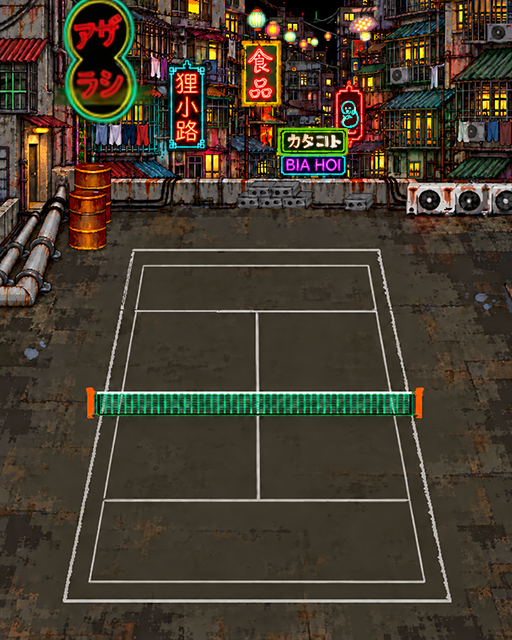
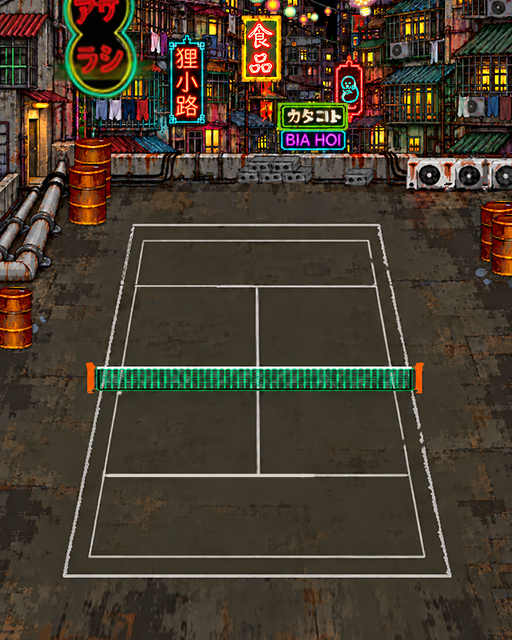
Restore latest stage backgrounds, audit inputs and remove unused court assets

diff --git a/game/tennis/main.js b/game/tennis/main.js
@@ -2,6 +2,8 @@
 // 数値は60回/秒の固定更新を前提とする。描画回数とは切り離す。
 const CANVAS_WIDTH = 256;
 const CANVAS_HEIGHT = 240;
+const ASSET_VERSION = '20261014-46';
+function assetUrl(file) { return `assets/${file}?v=${ASSET_VERSION}`; }
 const SETTINGS = {
   stepMs: 1000 / 60,
   moveImpulse: 1.2,
@@ -107,7 +109,7 @@ window.addEventListener('pointerdown', () => sound.unlock(), { capture: true });
 window.addEventListener('keydown', () => sound.unlock(), { capture: true });
 
 const sealImage = new Image();
-sealImage.src = 'assets/move_01.png';
+sealImage.src = assetUrl('move_01.png');
 // コマ寸法は提供データの実寸。画像は加工・反転せず読み込む。
 const SPRITE_CONFIG = {
   frameWidth: 71, frameHeight: 76,
@@ -124,7 +126,7 @@ for (const [key, file, frames] of [
   ['dashVertical', 'dash_y_seet.png', 2],
 ]) {
   const image = new Image();
-  image.src = `assets/${file}`;
+  image.src = assetUrl(file);
   sprites[key] = { image, frames };
 }
 // スイングのコマと判定は別管理。戻りで同じ絵を使っても再ヒットしない。
@@ -157,7 +159,7 @@ const VOLLEY = {
 // 提供PNGの黄色いラケット面を測定。半径は輪郭を含めた元画像上の値。
 VOLLEY.forehand.racketCenters = [[13.41, 22.04], [22.89, 47.05], [39.54, 51.57], [56.29, 52.85], [56.35, 30.49], [30.44, 12.45], [56.35, 30.49], [39.54, 51.57]];
 VOLLEY.forehand.racketRadii = [[12.41, 15.04], [12.11, 12.05], [9.54, 12.57], [12.29, 11.15], [12.65, 12.49], [11.56, 12.55], [12.65, 12.49], [9.54, 12.57]];
-VOLLEY.backhand.racketCenters = [[61.68, 22.57], [49.57, 42.45], [13.91, 49.98], [11.74, 37.69], [20.75, 10.49]];
+VOLLEY.backhand.racketCenters = [[65.72, 22.60], [53.53, 42.42], [17.84, 50.01], [15.57, 37.74], [24.69, 10.51]];
 VOLLEY.backhand.racketRadii = [[13.68, 15.57], [12.43, 13.45], [13.09, 13.02], [14.26, 14.69], [12.25, 11.51]];
 // サーブ・スマッシュ共通：03/04で打球、05は0.3秒の振り下ろし。
 for (const kind of ['smash', 'serve']) {
@@ -183,12 +185,12 @@ const campaign = { stage: [2,3].includes(window.SEAL_START_STAGE) ? window.SEAL_
 const score = { player: 0, cpu: 0 };
 const openingImages = {};
 for (const [key, file] of Object.entries({ background: 'openning.png', logo: 'logo.png' })) {
-  const image = new Image(); image.src = `assets/${file}`; openingImages[key] = image;
+  const image = new Image(); image.src = assetUrl(file); openingImages[key] = image;
 }
 const screen = { phase: 'title', ticks: 0 };
 const stageIntros = [null,...[1,2,3].map((stage)=>{
- const card=new Image();card.src=`assets/intro-stage${stage}.png`;
- const portrait=new Image();portrait.src=`assets/intro-${['cha','ich','erin'][stage-1]}.png`;
+ const card=new Image();card.src=assetUrl(`intro-stage${stage}.png`);
+ const portrait=new Image();portrait.src=assetUrl(`intro-${['cha','ich','erin'][stage-1]}.png`);
  return{card,portrait};
 })];
 function drawStageIntro(context){
@@ -216,7 +218,7 @@ function drawOpening(context, now) {
 }
 const judgeImages = {};
 for (const [key, file] of Object.entries({ referee: 'sinpan.png', bubble: 'fukidasi.png', win: 'WIN.png', lose: 'gameover.png' })) {
-  const image = new Image(); image.src = `assets/${file}`; judgeImages[key] = image;
+  const image = new Image(); image.src = assetUrl(file); judgeImages[key] = image;
 }
 const referee = { text: '', ticks: 0, frame: 1,
   call(text, ticks = 90) {
@@ -282,7 +284,7 @@ for (const config of Object.values(VOLLEY)) {
   }));
   config.totalTicks = config.phases.reduce((total, phase) => total + phase.ticks, 0);
   config.image = new Image();
-  config.image.src = `assets/${config.file}`;
+  config.image.src = assetUrl(config.file);
 }
 let showGuide = false;
 
@@ -327,7 +329,7 @@ class InputHandler {
     if (this.actionSources.has(source)) return;
     if (!this.action) {
       // 下を先に押している場合も、ショットを押した瞬間にロブを開始する。
-      this.shotQueue.push({ type: this.downHeld ? 'lob' : 'press' });
+      this.shotQueue.push({ type: this.downHeld ? 'lob' : 'press', shotPress: true });
     }
     this.actionSources.add(source);
   }
@@ -538,7 +540,7 @@ class SealPlayer {
     for (const event of input.shotQueue.splice(0)) {
       if (ball.serveWaiting || ball.serving || (this.isSwinging && this.shotType === 'serve')) {
         // サーブ専用：離す操作では振らない。最初の押下で準備→トス、次の押下で振る。
-        if (event.type === 'press' && !this.isSwinging) {
+        if ((event.type === 'press' || event.shotPress) && !this.isSwinging) {
           if (ball.servePhase === 'waiting') {
             this.shotType = 'serve';
             this.isPreparing = true;
@@ -663,7 +665,7 @@ for (const [key,file,frames,w,h] of [
  ['rightShot','2p_bolay_L.png',7,100,100],
  ['overhead','2p_sarv.png',6,100,100],
 ]) {
- const image = new Image(); image.src = `assets/${file}`;
+ const image = new Image(); image.src = assetUrl(file);
  CPU_SPRITES[key] = { image, frames, w, h };
 }
 const CPU_SHOTS = {
@@ -690,7 +692,7 @@ class CpuPlayer {
   this.shotKind='leftShot';this.swingElapsed=0;this.isSwinging=false;this.hasHit=false;
   this.reactionTimer=0;this.dashTimer=0;this.dashCooldown=0;
   this.serveAge=0;this.plan=null;
-  this.fatigueShots=0;this.fatigueTriggered=false;this.observedHits=-1;
+  this.fatigueShots=0;this.fatigueMoveShots=0;this.fatigueTriggered=false;this.observedHits=-1;
  }
  phase() {
   if(!this.isSwinging)return null;
@@ -754,7 +756,7 @@ class CpuPlayer {
   }else if(!this.isSwinging||this.hasHit){this.targetX=ball.rallyHits===0?128:Math.max(36,Math.min(220,ball.x));this.targetY=ball.rallyHits===0?58:100;}
   const dx=this.targetX-this.x,dy=this.targetY-this.y,distance=Math.hypot(dx,dy);
   if(incoming&&distance>38&&!this.dashCooldown&&!this.isSwinging){this.dashTimer=18;this.dashCooldown=100;}
-  const speed=(this.dashTimer?1.3:CPU_SETTINGS.speed)*(dy<0?0.65:1)*(this.fatigueShots>0?0.6:1);
+  const speed=(this.dashTimer?1.3:CPU_SETTINGS.speed)*(dy<0?0.65:1)*(this.fatigueMoveShots>0?0.6:1);
   if(distance>0.1){const step=Math.min(speed,distance);this.x+=dx/distance*step;this.y+=dy/distance*step;}
   this.moving=distance>0.1;
   if(Math.abs(dx)>0.1)this.visualFacing=Math.sign(dx);
@@ -775,7 +777,8 @@ class CpuPlayer {
   this.hasHit=true;ball.lastHitter='cpu';ball.bouncesInCurrentCourt=0;
   ball.lastShotQuality=quality;
   ball.recordReturn();
-  if(campaign.stage===1&&ball.rallyHits>=10&&!this.fatigueTriggered){this.fatigueTriggered=true;this.fatigueShots=5;}
+  if(this.fatigueMoveShots>0)this.fatigueMoveShots--;
+  if(campaign.stage===1&&ball.rallyHits>=10&&!this.fatigueTriggered){this.fatigueTriggered=true;this.fatigueShots=5;this.fatigueMoveShots=5;}
   const tired=this.fatigueShots>0;
   const r=this.racket();
   const contact=Math.max(-1,Math.min(1,(ball.x-r.x)/Math.max(1,r.hitRadius)));
@@ -838,7 +841,7 @@ for (const [key,file,cuts,h] of [
  ['rightShot','boy-fore.png',[0,110,220,330,440,550,660],99],
  ['overhead','boy-serve.png',[0,126,251,377,503,629,754,880],130],
  ['walk','boy-walk.png',[0,126,252,378,503],111]
-]) { const image=new Image();image.src=`assets/${file}`; BOY_SPRITES[key]={image,cuts,h}; }
+]) { const image=new Image();image.src=assetUrl(file); BOY_SPRITES[key]={image,cuts,h}; }
 const BOY_SHOTS = {
  leftShot: { centers:[[10,33],[64,18],[98,32],[98,61],[10,33]], anchor:[40,92], phases:[
   {frame:1,ticks:7},{frame:2,ticks:6,quality:'float'},{frame:3,ticks:7,quality:'critical'},{frame:4,ticks:8}] },
@@ -863,7 +866,7 @@ class BoyPlayer extends CpuPlayer {
   // 前へ突進せず、後方から長いリーチで返球する。
   this.targetY=Math.max(46,Math.min(84,this.targetY));
   const dx=this.targetX-this.x,dy=this.targetY-this.y,d=Math.hypot(dx,dy);
-  if(d>.1){const speed=CPU_SETTINGS.speed*(this.fatigueShots>0?.6:1),step=Math.min(speed,d);this.x+=dx/d*step;this.y+=dy/d*step;}
+  if(d>.1){const speed=CPU_SETTINGS.speed*(this.fatigueMoveShots>0?.6:1),step=Math.min(speed,d);this.x+=dx/d*step;this.y+=dy/d*step;}
   this.y=Math.min(84,this.y);this.moving=d>.1;this.animationTick=this.moving?this.animationTick+1:0;
   if(Math.abs(dx)>.1)this.visualFacing=Math.sign(dx);
   if(incoming&&!this.isSwinging&&this.plan&&this.plan.n<=this.plan.windup+1)this.startSwing(this.plan.kind);
@@ -947,7 +950,7 @@ const ERIN_SPRITES = {};
 for(const [key,file,frames,w,h] of [
  ['leftShot','erin-back.png',5,98,108],['rightShot','erin-fore.png',5,98,100],
  ['overhead','erin-serve.png',6,97,125],['moveLeft','erin-left.png',5,98,108],['moveRight','erin-right.png',5,98,108]
-]){const image=new Image();image.src=`assets/${file}`;ERIN_SPRITES[key]={image,frames,w,h};}
+]){const image=new Image();image.src=assetUrl(file);ERIN_SPRITES[key]={image,frames,w,h};}
 const ERIN_SHOTS = {
  leftShot:{anchor:[44,99],centers:[[76,74],[12,36],[26,64],[64,44],[86,27]],phases:[{frame:1,ticks:7},{frame:2,ticks:7,quality:'critical'},{frame:3,ticks:6,quality:'float'},{frame:4,ticks:9}]},
  rightShot:{anchor:[44,93],centers:[[83,65],[74,30],[82,53],[35,43],[14,38]],phases:[{frame:1,ticks:7},{frame:2,ticks:7,quality:'critical'},{frame:3,ticks:6,quality:'float'},{frame:4,ticks:9}]},
@@ -1303,6 +1306,7 @@ class Ball {
       const netHeight = campaign.stage === 3 ? 27/projectCourt(128,120).scale : campaign.stage === 2 ? 25 / projectCourt(128, 120).scale : 12;
       if (crossingHeight - this.radius < netHeight && !this.netTouched) {
         this.hitNet = true; this.netTouched = true;
+        sound.play('net');
         // ステージ3のサーブはネット接触もフォルトに数え、2回目で失点。
         if(campaign.stage===3&&this.servicePending){this.fault();return;}
         sound.tune('sad');
@@ -1387,66 +1391,38 @@ class Ball {
   }
 }
 
-function drawCourt(context) {
-  context.fillStyle = '#1c7a31';
-  context.fillRect(24, 36, 208, 178);
-  context.strokeStyle = '#ffffff'; context.lineWidth = 1;
-  context.strokeRect(36, 46, 184, 158);
-  context.beginPath();
-  context.moveTo(36, 84); context.lineTo(220, 84);
-  context.moveTo(36, 166); context.lineTo(220, 166);
-  context.moveTo(128, 84); context.lineTo(128, 166);
-  context.stroke();
-  context.fillStyle = 'rgba(230,230,230,0.5)';
-  context.fillRect(24, 108, 208, 12);
-  context.strokeStyle = '#eeeeee';
-  context.beginPath();
-  context.moveTo(24, 108); context.lineTo(232, 108);
-  context.moveTo(24, 120); context.lineTo(232, 120);
-  context.stroke();
-}
-
 // 表示だけを512×640へ投影。移動・打球の計算座標は従来の256×240を維持。
 const VIEW = { width: 512, height: 640 };
-// 提供された3枚を別レイヤーとして読み込む。
+// 各ステージ画像はコートとネットを含む完成背景。
 const sceneImages = {};
 const sceneLoadErrors = new Set();
-for (const name of ['background', 'court', 'net']) {
+for (const name of ['background']) {
   const image = new Image();
-  image.onerror = () => sceneLoadErrors.add(name);
-  image.onload = () => sceneLoadErrors.delete(name);
-  image.src = `assets/${name}.png`;
+  image.onerror = () => { sceneLoadErrors.add(name); };
+  image.onload = () => { sceneLoadErrors.delete(name); };
+  image.src = assetUrl(`${name}.png`);
   sceneImages[name] = image;
 }
-const COURT_ART = { x: 59, y: 199, width: 394, height: 406, sourceHeight: 396 };
-// 白線の奥・サービスライン・ネット・サービスライン・手前に対応。
-const COURT_Y = [[46,18], [84,67], [120,172.5], [166,278], [204,370]];
-const stage2Image = new Image(); stage2Image.src = 'assets/stage2.png';
-const stage3Image = new Image();stage3Image.src='assets/stage3.png';
-const continueImage = new Image();continueImage.src='assets/contenu.png';
+// 背景のシングルスラインとネットの接地位置へ計算座標を投影する。
+const STAGE_COURTS = {
+  1: { rows: [[46,226],[84,277],[120,389],[166,485],[204,578]], left: [143,89], right: [370,429], net: [83,364,347,28] },
+  2: { rows: [[46,225],[84,277],[120,390],[166,486],[204,578]], left: [144,85], right: [369,428], net: [83,365,348,25] },
+  3: { rows: [[46,242],[84,286],[120,390],[166,475],[204,557]], left: [144,89], right: [368,423], net: [86,363,338,31] }
+};
+const stage2Image = new Image(); stage2Image.src = assetUrl('stage2.png');
+const stage3Image = new Image();stage3Image.src = assetUrl('stage3.png');
+const continueImage = new Image();continueImage.src = assetUrl('contenu.png');
 function projectCourt(x, y) {
-  if(campaign.stage===3){
-   const rows=[[46,266],[84,311],[120,415],[166,500],[204,582]];let i=0;
-   while(i<rows.length-2&&y>rows[i+1][0])i++;
-   const [wa,sa]=rows[i],[wb,sb]=rows[i+1],sy=sa+(y-wa)/(wb-wa)*(sb-sa),t=(sy-266)/316;
-   const left=144-55*t,right=367+58*t,scale=(right-left)/184;return{x:left+(x-36)*scale,y:sy,scale};
-  }
-  if (campaign.stage === 2) {
-    const rows=[[46,225],[84,277],[120,390],[166,486],[204,578]];let i=0;
-    while(i<rows.length-2&&y>rows[i+1][0])i++;
-    const [wa,sa]=rows[i],[wb,sb]=rows[i+1], sy=sa+(y-wa)/(wb-wa)*(sb-sa);
-    const t=(sy-225)/(578-225),left=144-59*t,right=369+59*t,scale=(right-left)/184;
-    return{x:left+(x-36)*scale,y:sy,scale};
-  }
+  const court = STAGE_COURTS[campaign.stage], rows = court.rows;
   let i = 0;
-  while (i < COURT_Y.length - 2 && y > COURT_Y[i + 1][0]) i++;
-  const [wa, sa] = COURT_Y[i], [wb, sb] = COURT_Y[i + 1];
+  while (i < rows.length - 2 && y > rows[i + 1][0]) i++;
+  const [wa,sa] = rows[i], [wb,sb] = rows[i + 1];
   const sy = sa + (y - wa) / (wb - wa) * (sb - sa);
-  const t = (sy - 18) / 352;
-  const left = 81 - 54 * t, right = 310 + 56 * t;
+  const t = (sy - rows[0][1]) / (rows[rows.length - 1][1] - rows[0][1]);
+  const left = court.left[0] + (court.left[1] - court.left[0]) * t;
+  const right = court.right[0] + (court.right[1] - court.right[0]) * t;
   const scale = (right - left) / 184;
-  return { x: COURT_ART.x + left + (x - 36) * scale,
-    y: COURT_ART.y + sy * COURT_ART.height / COURT_ART.sourceHeight, scale };
+  return { x: left + (x - 36) * scale, y: sy, scale };
 }
 function imageReady(image) { return image.complete && image.naturalWidth > 0; }
 function drawProjected(context, object, x, y) {
@@ -1459,25 +1435,16 @@ function drawProjected(context, object, x, y) {
   context.restore();
 }
 function drawProjectedNet(context) {
-  if(campaign.stage===3){if(imageReady(stage3Image))context.drawImage(stage3Image,87,389,336,27,87,389,336,27);return;}
-  if (campaign.stage === 2) {
-    // 背景内ネットを同じ画像から前景に重ね、奥の球・人物を隠す。
-    if(imageReady(stage2Image))context.drawImage(stage2Image,83,365,348,25,83,365,348,25);
-    return;
-  }
-  const a = projectCourt(24, 120), b = projectCourt(232, 120);
-  // 上端を従来の衝突判定（高さ12）に合わせる。
-  const height = 12 * a.scale;
-  if (imageReady(sceneImages.net))
-    context.drawImage(sceneImages.net, a.x, a.y - height, b.x - a.x, height);
+  const image = campaign.stage === 1 ? sceneImages.background : campaign.stage === 2 ? stage2Image : stage3Image;
+  const [x,y,width,height] = STAGE_COURTS[campaign.stage].net;
+  // 背景内ネットを前景に重ね、奥側の球・人物との前後関係を保つ。
+  if (imageReady(image)) context.drawImage(image,x,y,width,height,x,y,width,height);
 }
 function drawScene(context) {
   context.fillStyle = '#10171a'; context.fillRect(0,0,VIEW.width,VIEW.height);
   if(campaign.stage===3&&imageReady(stage3Image))context.drawImage(stage3Image,0,0,512,640);
   if (campaign.stage === 2 && imageReady(stage2Image)) context.drawImage(stage2Image,0,0,512,640);
   if (campaign.stage === 1 && imageReady(sceneImages.background)) context.drawImage(sceneImages.background,0,0,VIEW.width,VIEW.height);
-  if (campaign.stage === 1 && imageReady(sceneImages.court)) context.drawImage(sceneImages.court,
-    COURT_ART.x, COURT_ART.y, COURT_ART.width, COURT_ART.height);
   if(screen.phase==='continue'){drawContinue(context);return;}
   drawProjected(context,cpu,cpu.x,cpu.y);
   if(ball.y < 120) drawProjected(context,ball,ball.x,ball.y);
@@ -1650,9 +1617,6 @@ function gameLoop(now) {
   if (!paused && !document.hidden) clock.advance(now);
   ctx.imageSmoothingEnabled = false;
   if (screen.phase === 'title' || screen.phase === 'confirming') drawOpening(ctx, now); else if(screen.phase==='intro')drawStageIntro(ctx); else drawScene(ctx);
-  const names = { forehand: 'フォア', backhand: 'バック', smash: 'スマッシュ', serve: 'サーブ' };
-  const qualityNames = { normal: '通常打点', critical: 'ジャスト', float: '浮き球', smash: 'スマッシュ', serve_fast: '速いサーブ', serve_safe: '安定サーブ' };
-  const activeQuality = player.getHitQuality();
   const guideButton = document.getElementById('guide-toggle');
   guideButton?.setAttribute('aria-pressed', String(showGuide));
   const modeButton = document.getElementById('serve-mode');

diff --git a/game/tennis/stage2-test.html b/game/tennis/stage2-test.html
@@ -17,7 +17,7 @@
 </head>
 <body>
   <div id="game-container" data-screen="title">
-    <p class="version">SEAL TENNIS · ステージ3確認版 42</p>
+    <p class="version">SEAL TENNIS · ステージ3確認版 46</p>
     <canvas id="gameCanvas" width="512" height="640"></canvas>
     
     <div id="stage-select" aria-label="テスト用ステージ選択">
@@ -49,7 +49,7 @@
   </div>
 
   <script>window.SEAL_START_STAGE = 2;</script>
-  <script defer src="main.js?v=20261014-stage3-42"></script>
+  <script defer src="main.js?v=20261014-stage3-46"></script>
 </body>
 </html>
 

diff --git a/game/tennis/stage3-test.html b/game/tennis/stage3-test.html
@@ -17,7 +17,7 @@
 </head>
 <body>
   <div id="game-container" data-screen="title">
-    <p class="version">SEAL TENNIS · ステージ3確認版 42</p>
+    <p class="version">SEAL TENNIS · ステージ3確認版 46</p>
     <canvas id="gameCanvas" width="512" height="640"></canvas>
     
     <div id="stage-select" aria-label="テスト用ステージ選択">
@@ -49,7 +49,7 @@
   </div>
 
   <script>window.SEAL_START_STAGE = 3;</script>
-  <script defer src="main.js?v=20261014-stage3-42"></script>
+  <script defer src="main.js?v=20261014-stage3-46"></script>
 </body>
 </html>
 

diff --git a/game/tennis/index.html b/game/tennis/index.html
@@ -17,7 +17,7 @@
 </head>
 <body>
   <div id="game-container" data-screen="title">
-    <p class="version">SEAL TENNIS · ステージ3確認版 45</p>
+    <p class="version">SEAL TENNIS · ステージ3確認版 46</p>
     <canvas id="gameCanvas" width="512" height="640"></canvas>
     
     <div id="stage-select" aria-label="テスト用ステージ選択">
@@ -48,7 +48,7 @@
     </div>
   </div>
 
-  <script defer src="main.js?v=20261014-stage3-45"></script>
+  <script defer src="main.js?v=20261014-stage3-46"></script>
 </body>
 </html>
 
